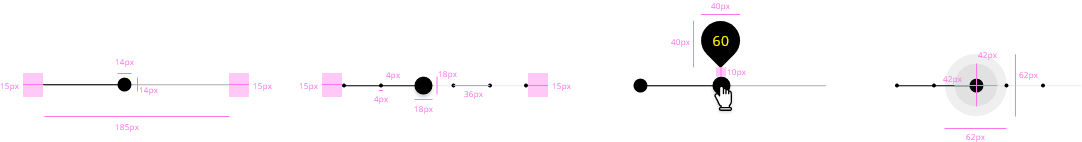
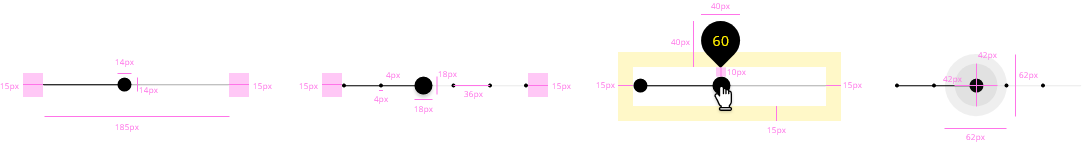
More information to slider component

Changed region(s): [[0.549, 0.3662, 0.793, 0.8732], [0.7015, 0.9014, 0.732, 0.9577]]

diff --git a/Slider/README.md b/Slider/README.md
@@ -46,7 +46,7 @@ The design specifications for slider are defining in the table below.
 
 | Property           | Value|
 |--------------------|------:|
-| Margin right/left  | `15px`|
+| Margin             | `15px`|
 | Slider line thickness   | `1px` |
 | Default knob       | `14 x 14px` |
 | Selected knob       | `18 x 18px` |
